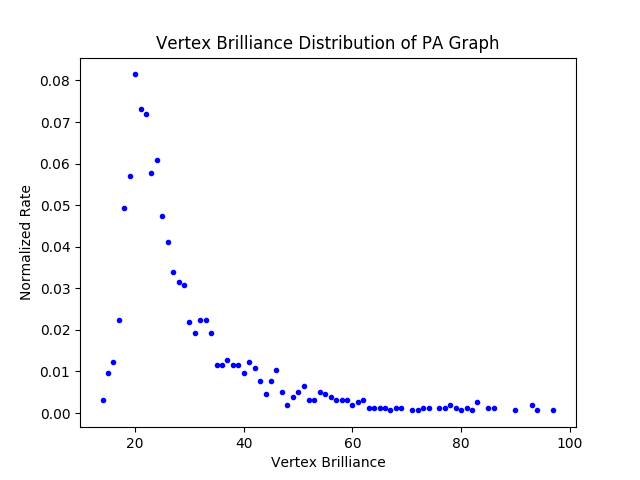
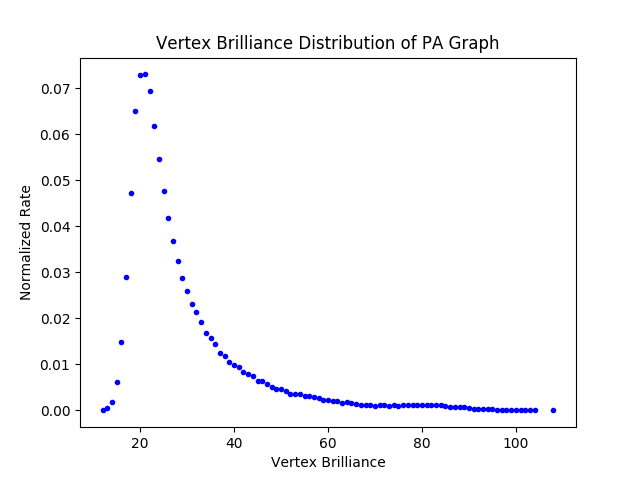
averaged vertex brilliance for pa graph

diff --git a/q2-vertex-brilliance.py b/q2-vertex-brilliance.py
@@ -77,7 +77,7 @@ def make_ring_group_graph(m, k, p, q):
         for u in range(v + 1, num_vertices):
             u_group = u // k
             random_number = random.random()
-            if v_group == u_group or (abs(v_group - u_group) % m) == 1:
+            if v_group == u_group or (abs(v_group - u_group) % (m-1)) == 1:
                 if random_number < p:
                     edges += 1
                     pedges +=1
@@ -110,8 +110,7 @@ def make_pa_graph(total_nodes, num_nodes):
         for u in range(v + 1, num_nodes):
             PA_graph[v].add(u)
             PA_graph[u].add(v)
-            repeated_nodes += [v,u]
-    print('repeated edges for complete graph', repeated_nodes.sort())
+        repeated_nodes += [v] * num_nodes
     for v in range(num_nodes, total_nodes):
         for dummy_idx in range(num_nodes):
             node = random.choice(repeated_nodes)
@@ -120,7 +119,6 @@ def make_pa_graph(total_nodes, num_nodes):
         repeated_nodes.extend(list(PA_graph[v]))
         repeated_nodes.extend([v] * len(PA_graph[v]))
         edges += len(PA_graph[v])
-    print('edges for pa', edges)
     return PA_graph
 
 
@@ -289,30 +287,41 @@ def create_degree_distribution_plot(degree_distribution, plot_file_name, plot_na
 # print(vertex_brilliance_distribution(graph))
 
 
-vertices_dict, coauthorship_graph = load_graph("coauthorship.txt")
-vertex_brilliance_distribution_coauthorship = normalized_vertex_brilliance_distribution(coauthorship_graph,
-                                                                                            len(coauthorship_graph.keys()))
-create_vertex_brilliance_distribution_plot(vertex_brilliance_distribution_coauthorship,
-                                                'coauthorship-vertex-brilliance','coauthorship')
-#
+# vertices_dict, coauthorship_graph = load_graph("coauthorship.txt")
+# vertex_brilliance_distribution_coauthorship = normalized_vertex_brilliance_distribution(coauthorship_graph,
+#                                                                                             len(coauthorship_graph.keys()))
+# create_vertex_brilliance_distribution_plot(vertex_brilliance_distribution_coauthorship,
+#                                                 'coauthorship-vertex-brilliance','coauthorship')
+
 
 # n = 1559
 # m = 30
-
-# TODO setup a number of trails to compute the brilliance for randomly generated graphs (average normalized
-# brilliance distribution)
-# pa_graph = make_pa_graph(n,m)
-# pa_graph_dd = normalized_degree_distribution(pa_graph, n)
+#
+# t = 100
+#
+# degree_distributions = []
+# brilliance_distributions = []
+#
+# for i in range(t):
+#     print(i)
+#     pa_graph = make_pa_graph(n,m)
+#     degree_distributions += [normalized_degree_distribution(pa_graph, n)]
+#     brilliance_distributions += [normalized_vertex_brilliance_distribution(pa_graph, n)]
+# pa_graph_dd = average_normalized_distribution(degree_distributions)
+# pa_graph_vb = average_normalized_distribution(brilliance_distributions)
 # create_degree_distribution_plot(pa_graph_dd, 'pa_graph-' + str(n) + '-' + str(m) + '-degree', 'PA Graph')
-# pa_graph_vb = normalized_vertex_brilliance_distribution(pa_graph,n)
 # create_vertex_brilliance_distribution_plot(pa_graph_vb, 'pa_graph-' + str(n) + '-' + str(m) + '-brilliance', 'PA Graph')
-
-# pa_graph_nx = nx.to_dict_of_lists(nx.barabasi_albert_graph(n,m))
-# pa_graph_dd_nx = normalized_degree_distribution(pa_graph_nx, n)
-# create_degree_distribution_plot(pa_graph_dd_nx, 'nx-pa_graph-' + str(n) + '-' + str(m), 'PA Graph nx')
-# pa_graph_nx_vb = normalized_vertex_brilliance_distribution(pa_graph_nx,n)
-# create_vertex_brilliance_distribution_plot(pa_graph_nx_vb, 'nx-pa_graph-' + str(n) + '-' + str(m) +
-# '-brilliance', 'PA Graph nx')
+#
+# for i in range(t):
+#     print(i)
+#     pa_graph_nx = nx.to_dict_of_lists(nx.barabasi_albert_graph(n, m))
+#     degree_distributions += [normalized_degree_distribution(pa_graph_nx, n)]
+#     brilliance_distributions += [normalized_vertex_brilliance_distribution(pa_graph_nx, n)]
+# pa_graph_dd_nx = average_normalized_distribution(degree_distributions)
+# pa_graph_vb_nx = average_normalized_distribution(brilliance_distributions)
+# create_degree_distribution_plot(pa_graph_dd_nx, 'nx-pa_graph-' + str(n) + '-' + str(m) + '-degree', 'PA Graph nx')
+# create_vertex_brilliance_distribution_plot(pa_graph_vb_nx, 'nx-pa_graph-' + str(n) + '-' + str(m) +
+#                                                 '-brilliance', 'PA Graph nx')
 
 # TODO find the right m and k so that the number of nodes is 1559 or close and p and q so that the number of edges
 # is close to 43617

diff --git a/q1-ring-group-graphs.py b/q1-ring-group-graphs.py
@@ -11,6 +11,8 @@ The functions degree_distribution, normalized_degree_distribution and average_no
 - average_normalized_degree_distribution: it was modified to fit with the ring group graph
 """
 
+# TODO redo the graphs for ring_group
+
 
 def make_ring_group_graph(m, k, p, q):
     """
@@ -34,7 +36,7 @@ def make_ring_group_graph(m, k, p, q):
         for u in range(v + 1, num_vertices):
             u_group = u // k
             random_number = random.random()
-            if v_group == u_group or (abs(v_group - u_group) % m) == 1:
+            if v_group == u_group or (abs(v_group - u_group) % (m-1)) == 1:
                 if random_number < p:
                     ring_group_graph[v].add(u)
                     ring_group_graph[u].add(v)
@@ -127,7 +129,7 @@ def make_nx_ring_group_graph(m, k, p, q):
         for u in range(v + 1, num_vertices):
             u_group = u // k
             random_number = random.random()
-            if v_group == u_group or (abs(v_group - u_group) % m) == 1:
+            if v_group == u_group or (abs(v_group - u_group) % (m-1)) == 1:
                 if random_number < p:
                     ring_group_graph.add_edge(v,u)
             else:
@@ -186,18 +188,18 @@ def create_diameter_p_plot(p_diameter, plot_file_name, plot_name):
 #     create_degree_distribution_plot(kGreater, 'q1/' + str(k) + '-' + str(m) + '-' + str(p) + '-' + str(q), 'Ring Group Graph')
 
 
-m = 50
+m = 10
 k = 5
 q = 0.15
 
-mGreater = make_p_diameter(100, m, k, q)
-create_diameter_p_plot(mGreater, 'q1/diameter-' + str(m) + '-' + str(k) + '-' + str(q), 'Ring Group Graph')
-kGreater = make_p_diameter(100, k, m, q)
-create_diameter_p_plot(kGreater, 'q1/diameter-' + str(k) + '-' + str(m) + '-' + str(q), 'Ring Group Graph')
-#
-# for i in range(10, int(round(100 - q * 100)), 10):
-#     p = round(q + i / 100, 2)
-#     mGreater = average_normalized_degree_distribution(100, m, k, p, q)
-#     create_degree_distribution_plot(mGreater, 'q1/prob-p/' + str(m) + '-' + str(k) + '-' + str(p) + '-' + str(q), 'Ring Group Graph')
-#     kGreater = average_normalized_degree_distribution(100, k, m, p, q)
-#     create_degree_distribution_plot(kGreater, 'q1/prob-p/' + str(k) + '-' + str(m) + '-' + str(p) + '-' + str(q), 'Ring Group Graph')
+# mGreater = make_p_diameter(100, m, k, q)
+# create_diameter_p_plot(mGreater, 'q1/diameter-' + str(m) + '-' + str(k) + '-' + str(q), 'Ring Group Graph')
+# kGreater = make_p_diameter(100, k, m, q)
+# create_diameter_p_plot(kGreater, 'q1/diameter-' + str(k) + '-' + str(m) + '-' + str(q), 'Ring Group Graph')
+
+for i in range(10, int(round(100 - q * 100)), 10):
+    p = round(q + i / 100, 2)
+    mGreater = average_normalized_degree_distribution(100, m, k, p, q)
+    create_degree_distribution_plot(mGreater, 'q1/prob-p/' + str(m) + '-' + str(k) + '-' + str(p) + '-' + str(q), 'Ring Group Graph')
+    kGreater = average_normalized_degree_distribution(100, k, m, p, q)
+    create_degree_distribution_plot(kGreater, 'q1/prob-p/' + str(k) + '-' + str(m) + '-' + str(p) + '-' + str(q), 'Ring Group Graph')
